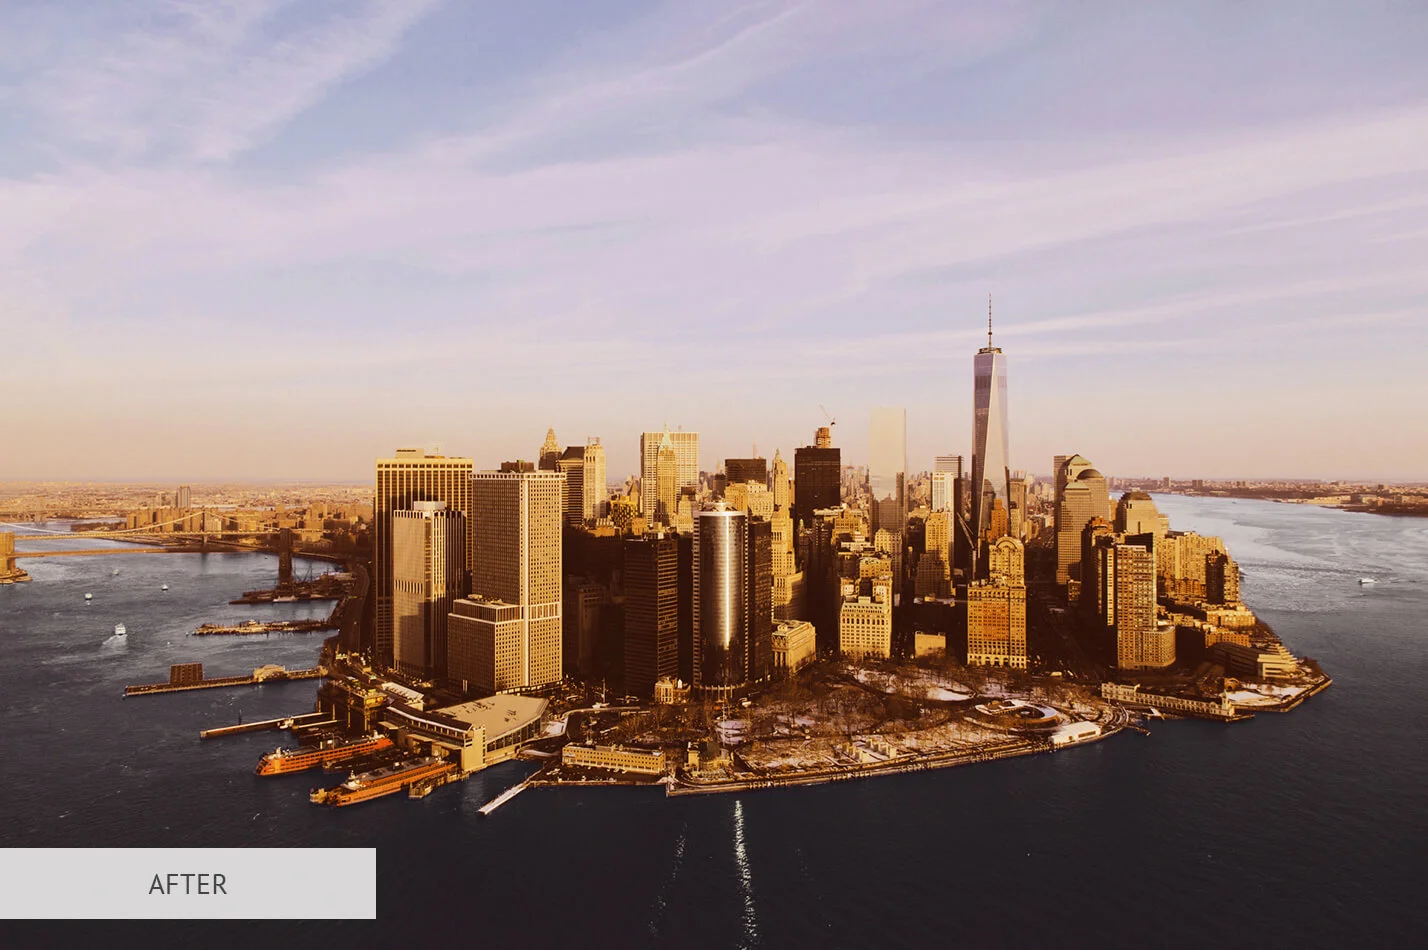
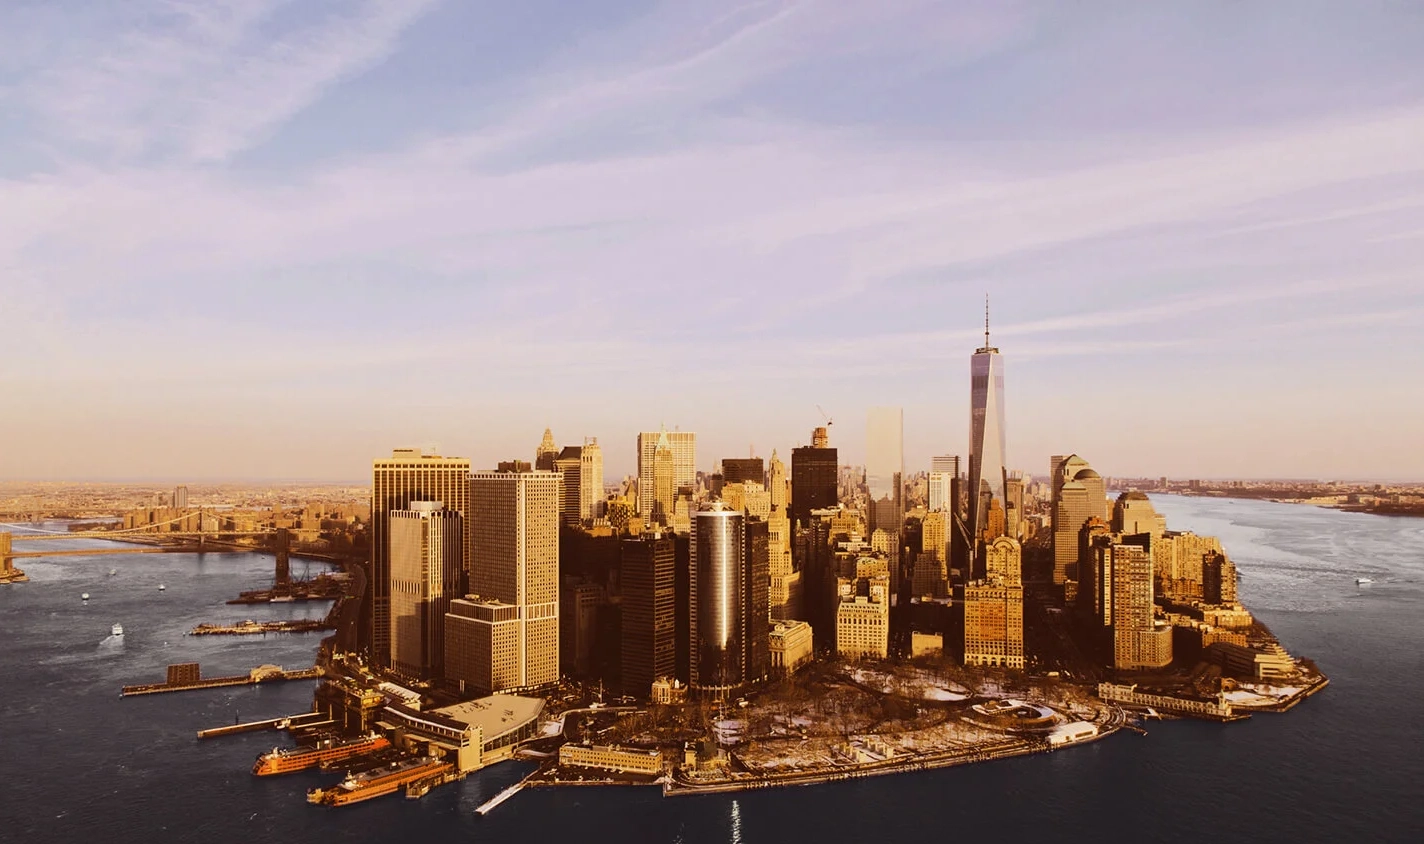
updates

diff --git a/src/App.tsx b/src/App.tsx
@@ -23,7 +23,7 @@ export default function App() {
       const target = e.target as HTMLElement;
       // Find closest anchor tag
       const anchor = target.closest('a');
-      
+
       // Check if it's a link to the checkout page
       if (anchor && anchor.href && anchor.href.includes('superprofile.bio')) {
         // Trigger Facebook Pixel InitiateCheckout event
@@ -40,7 +40,7 @@ export default function App() {
 
     // Use capturing phase to ensure we catch the event before any stopPropagation
     document.addEventListener('click', handleCTAClick, true);
-    
+
     return () => {
       document.removeEventListener('click', handleCTAClick, true);
     };
@@ -65,8 +65,8 @@ export default function App() {
         <AudienceSection />
         {/* Section 3: Social Proof — Wall of Love */}
         <ReviewsSection />
-        {/* Section 5: How It Works — 3 Steps */}
-        <AccessSection />
+        {/* Section 5: How It Works — 3 Steps 
+        <AccessSection />*/}
         {/* Bonus Section */}
         <BonusSection />
         {/* Pricing CTA Box */}

diff --git a/src/components/Header.tsx b/src/components/Header.tsx
@@ -36,13 +36,13 @@ export default function Header() {
       <div
         className="w-full h-[50px] flex  items-center justify-center px-4 text-center"
         style={{
-          background: 'linear-gradient(90deg, #00effbb4, #379effff, #5689ffff)',
+          background: 'linear-gradient(90deg, #28698eb4, #004b92ff, #292669ff)',
           backgroundSize: '200% 100%',
           // animation: 'shimmer 3s linear infinite',
         }}
       >
         <p className="text-xs sm:text-sm font-bold text-[#ebf7fc] tracking-wide">
-          ⚡ FLASH DEAL: FREE ₹3,696 Bonus expires in →{' '}
+          ⚡ Use 'MASTER70' Code to Get Extra ₹70 off expires in →{' '}
           <span className="font-mono inline-block min-w-[65px]">
             {pad(time.hours)}:{pad(time.minutes)}:{pad(time.seconds)}
           </span>{' '}

diff --git a/src/components/PricingSection.tsx b/src/components/PricingSection.tsx
@@ -20,13 +20,13 @@ export default function PricingSection() {
           <div className="glow-line" />
 
           <h3 className="text-xl sm:text-2xl font-black text-white mb-6">
-            Complete Video Editing Bundle
+            Lock In the Master Bundle Deal
           </h3>
 
           {/* Value stack */}
           <div className="space-y-2.5 mb-6">
             {[
-              ['ProDigitalFiles Video Editing Assets (28+ Packs)', '₹3,999'],
+              ['ProDigitalFiles Master Bundle (28+ Packs)', '₹3,999'],
               ['Exclusive Bonuses', '₹3,696'],
             ].map(([label, price], i) => (
               <div key={i} className="flex items-center justify-between card-dark rounded-xl px-4 py-3">

diff --git a/src/components/FAQSection.tsx b/src/components/FAQSection.tsx
@@ -3,7 +3,7 @@ import { useState } from 'react';
 const faqs = [
   {
     q: 'What exactly do I get in this bundle?',
-    a: 'You get 70GB+ of professional video editing assets across 28+ Packs — including LUTs, transitions, overlays, sound effects, music, motion graphics, templates, fonts, stock footage, and much more. Plus 4 exclusive bonuses worth ₹3,696!',
+    a: 'You get professional video editing assets across 28+ Packs — including LUTs, transitions, overlays, sound effects, music, motion graphics, templates, fonts, stock footage, and much more. Plus 4 exclusive bonuses worth ₹3,696!',
   },
   {
     q: 'Which video editing software is this compatible with?',

diff --git a/src/components/HeroSection.tsx b/src/components/HeroSection.tsx
@@ -77,7 +77,7 @@ export default function HeroSection() {
 
         {/* Sub-headline */}
         <p className="mt-3 sm:mt-4 text-base sm:text-xl text-gray-400 max-w-2xl mx-auto mb-4 sm:mb-4 px-2">
-          Instantly unlock 28+ editing packs with drag-and-drop LUTs, transitions, SFX, and an complete editing course to slash edit times by 80% to Level Up your videos quality immediately.
+          Instantly unlock 28+ editing packs with drag-and-drop LUTs, transitions, SFX, and an complete editing course to slash edit times by 80% to Level Up your videos quality.
         </p>
 
         {/* Social Proof - Trust elements */}

diff --git a/src/components/FeatureGrid.tsx b/src/components/FeatureGrid.tsx
@@ -47,7 +47,7 @@ const mainSections = [
     cardTitle: "Fast-Track Editing Course",
     subtitle: "Learn Fast Pacing, Storytelling & Client Workflow with quality Add-Ons",
     video: "/images/course.webm",
-    features: ["Full A-Z Editing Course", "Viral Meme Videos Pack", "500+ 4K Stock Footage", "Wedding Title Pack", "Youtube Essential Pack"]
+    features: ["Full A-Z Editing Course", "500+ 4K Stock Footage", "Wedding Title Pack", "Youtube Essential Pack"]
   }
 ];
 

diff --git a/src/components/BonusSection.tsx b/src/components/BonusSection.tsx
@@ -6,15 +6,15 @@ const bonuses = [
     value: '₹999',
   },
   {
-    title: 'The "3-Second Rule" Content Blueprint',
+    title: 'Viral Meme Videos Pack',
     value: '₹699',
   },
   {
-    title: '1,000+ Copy-Paste Prompts for Viral AI Videos',
+    title: '1,000+ Prompts for Viral AI Videos',
     value: '₹499',
   },
   {
-    title: '0 to 100K Instagram Growth System',
+    title: '0 to 100K Instagram Growth Course',
     value: '₹1,499',
   },
 ];

diff --git a/src/components/AccessSection.tsx b/src/components/AccessSection.tsx
@@ -16,7 +16,7 @@ const steps = [
   {
     emoji: '📥',
     step: 'STEP 03',
-    title: 'Instant Access PDF',
+    title: 'Instant Access',
     desc: 'Get confirmation email and access the complete pack instantly',
   },
 ];
